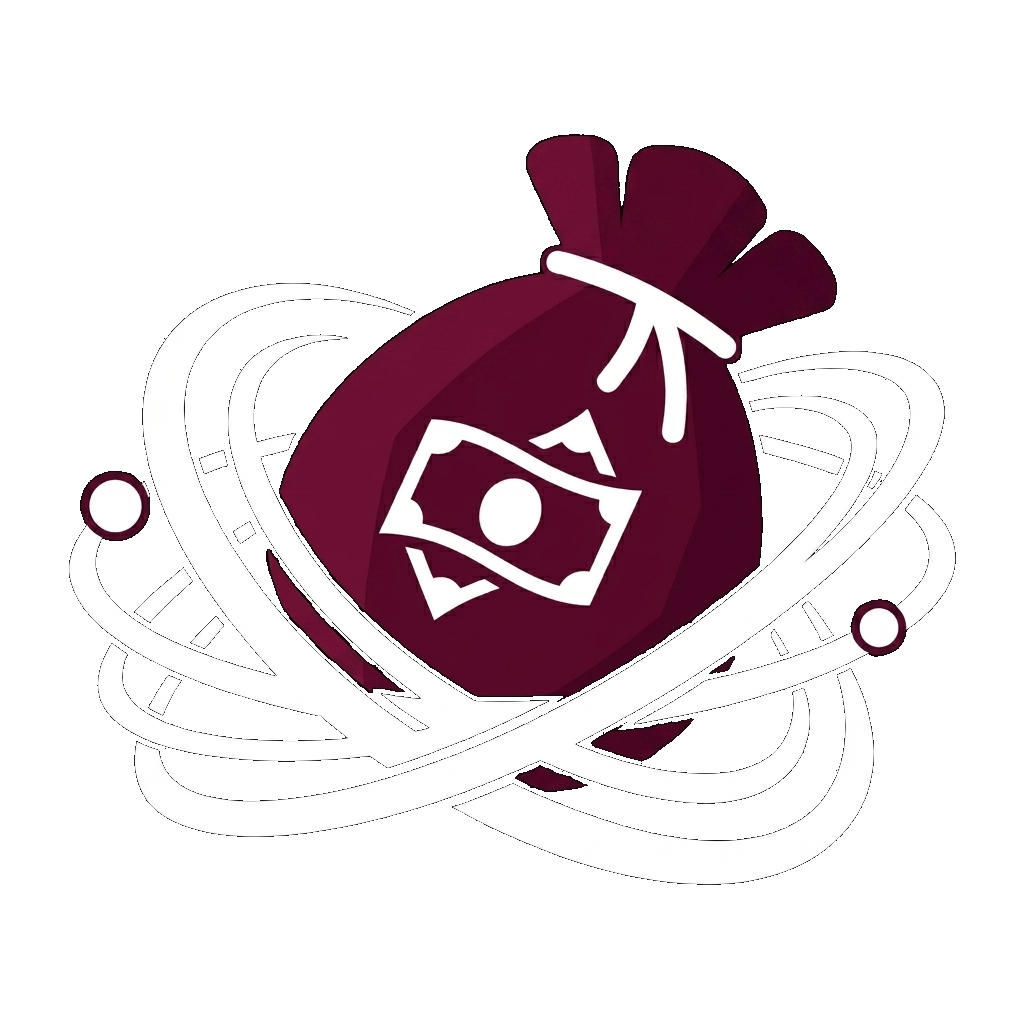
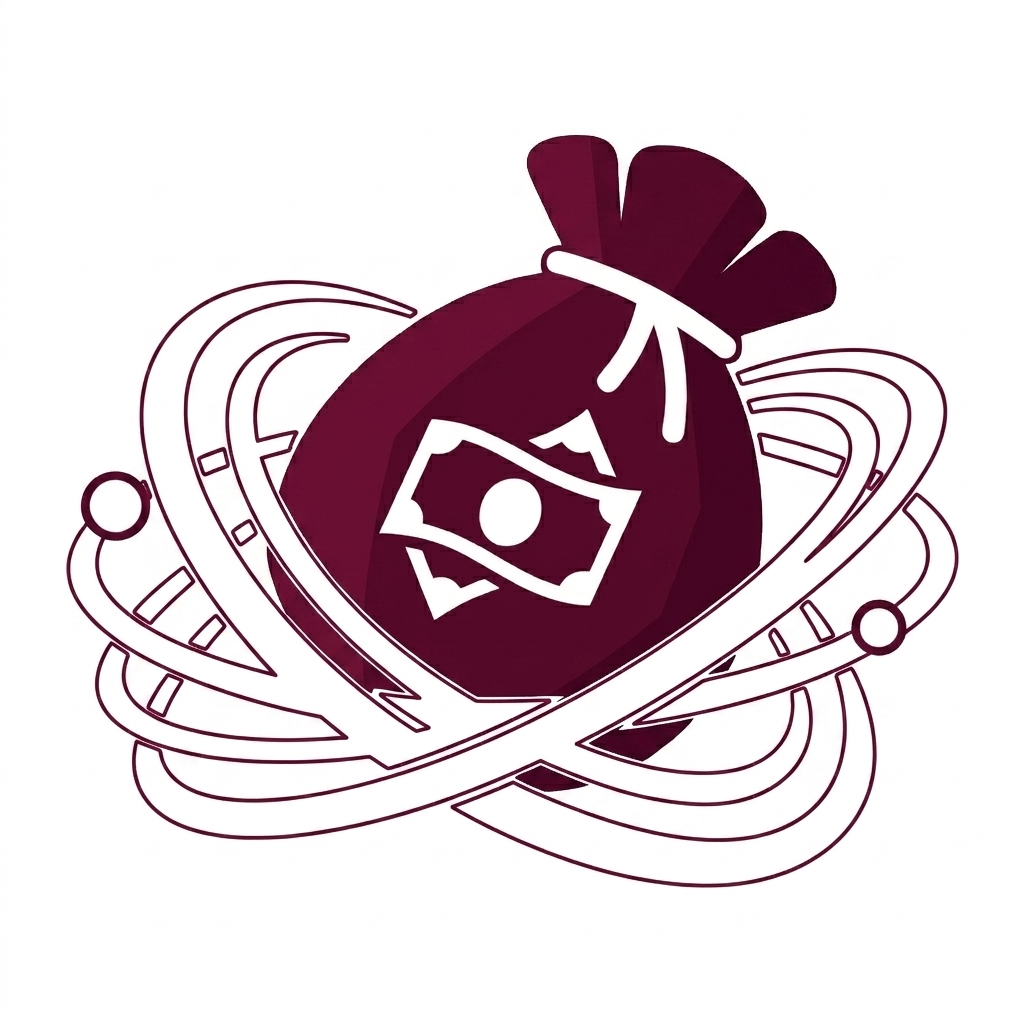
Cashhero v1.0.0

diff --git a/src/components/MobileNav.tsx b/src/components/MobileNav.tsx
@@ -4,13 +4,13 @@ import * as React from "react"
 import Link from "next/link"
 import { usePathname } from "next/navigation"
 import { motion } from "framer-motion"
-import { 
-  LayoutDashboard, 
-  PiggyBank, 
-  TrendingUp, 
-  Calendar, 
-  History, 
-  Settings 
+import {
+  LayoutDashboard,
+  PiggyBank,
+  TrendingUp,
+  Calendar,
+  History,
+  Settings
 } from "lucide-react"
 import { useLanguageStore, translations } from "@/store/useLanguageStore"
 import { LanguageToggle } from "./LanguageToggle"
@@ -30,8 +30,8 @@ export function MobileHeader() {
       <div className="flex items-center gap-2 shrink-0">
         <LanguageToggle />
         <ThemeToggle />
-        <Link 
-          href="/settings" 
+        <Link
+          href="/settings"
           className="p-2 hover:bg-primary/10 dark:hover:bg-rose-950/20 rounded-lg transition-all duration-300 relative overflow-hidden"
         >
           <motion.div
@@ -109,12 +109,12 @@ export function MobileBottomBar() {
     },
     {
       href: "/planning",
-      label: t('planning'),
+      label: language === 'id' ? 'Rencana' : 'Planning',
       icon: PiggyBank,
     },
     {
       href: "/calendar",
-      label: t('calendar'),
+      label: language === 'id' ? 'Kalender' : 'Calendar',
       icon: Calendar,
     },
     {
@@ -132,7 +132,7 @@ export function MobileBottomBar() {
   if (!mounted) return null
 
   return (
-    <div className="fixed bottom-0 left-0 right-0 z-30 md:hidden bg-background/80 backdrop-blur-lg border-t border-border/80 px-2 py-2.5 pb-safe flex items-center justify-around no-print shadow-[0_-4px_16px_rgba(0,0,0,0.05)] transition-all duration-300">
+    <div className="fixed bottom-0 left-0 right-0 z-30 md:hidden bg-background/80 backdrop-blur-lg border-t border-border/80 px-2 py-2.5 pb-safe grid grid-cols-5 justify-items-center items-center no-print shadow-[0_-4px_16px_rgba(0,0,0,0.05)] transition-all duration-300">
       {items.map((item) => {
         const isActive = pathname === item.href
         const Icon = item.icon
@@ -141,7 +141,7 @@ export function MobileBottomBar() {
           <Link
             key={item.href}
             href={item.href}
-            className="flex flex-col items-center justify-center gap-1 relative py-1 px-3.5 rounded-xl transition-all duration-200"
+            className="flex flex-col items-center justify-center gap-1 relative py-1 w-full max-w-[72px] rounded-xl transition-all duration-200"
           >
             {isActive && (
               <motion.span
@@ -150,19 +150,17 @@ export function MobileBottomBar() {
                 transition={{ type: "spring", stiffness: 380, damping: 30 }}
               />
             )}
-            <Icon 
-              className={`w-5.5 h-5.5 relative z-10 transition-all duration-300 ${
-                isActive 
-                  ? "text-primary scale-110" 
+            <Icon
+              className={`w-5.5 h-5.5 relative z-10 transition-all duration-300 ${isActive
+                  ? "text-primary scale-110"
                   : "text-muted-foreground/80 hover:text-foreground"
-              }`} 
+                }`}
             />
-            <span 
-              className={`text-[8px] font-bold tracking-wider relative z-10 uppercase transition-colors duration-300 ${
-                isActive 
-                  ? "text-primary font-extrabold" 
+            <span
+              className={`text-[8px] font-bold tracking-wider relative z-10 uppercase transition-colors duration-300 ${isActive
+                  ? "text-primary font-extrabold"
                   : "text-muted-foreground/80"
-              }`}
+                }`}
             >
               {item.label}
             </span>